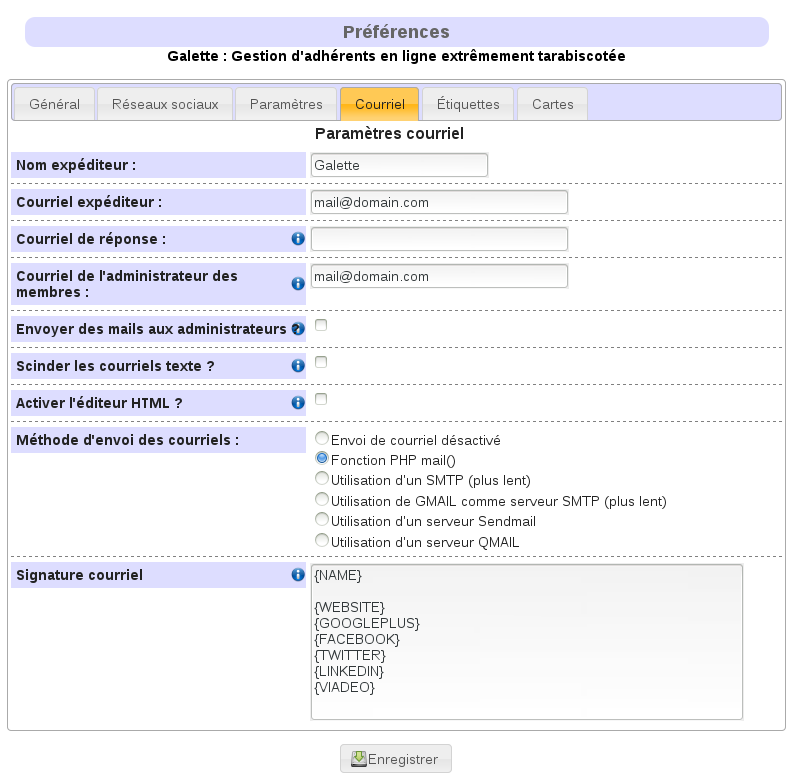
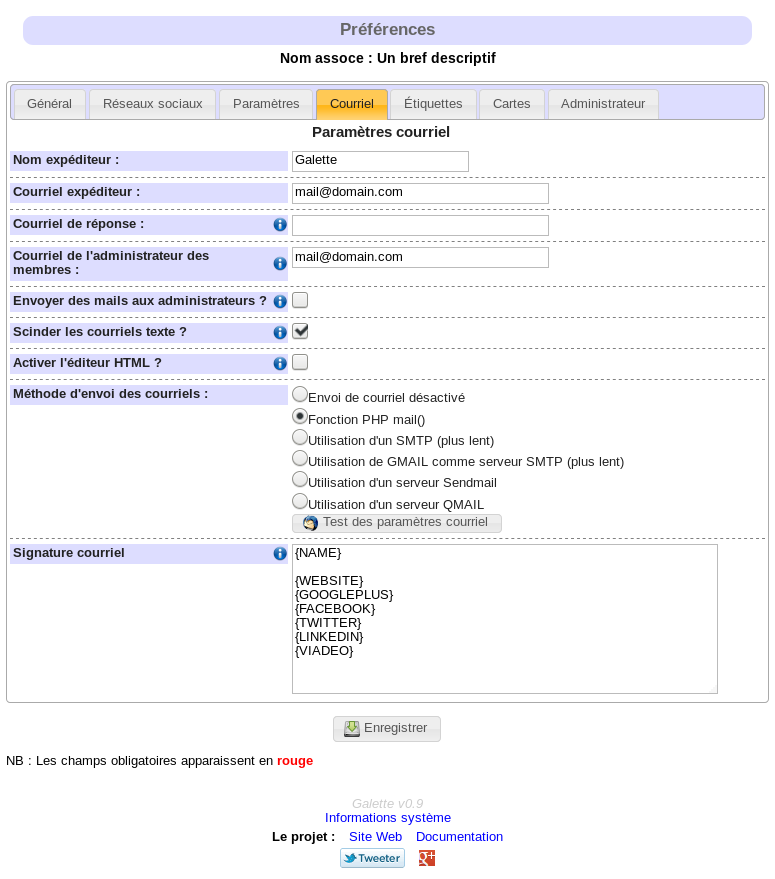
Capture préférences mails et rédaction de cette partie

Changed region(s): [[0.0, 0.0, 1.0, 1.0], [0.929, 0.7682, 0.96, 0.8297]]

diff --git a/source/usermanual/preferences.rst b/source/usermanual/preferences.rst
@@ -74,10 +74,47 @@ Paramètres de Galette :
 Courriel
 ========
 
+Paramètres d'envoi de courriels :
+
 .. image:: ../_styles/static/images/usermanual/prefs_mail.png
    :scale: 50%
    :align: center
    :alt: Préférences de Galette, onglet Général
+
+* **Nom expéditeur** : le nom textuel de l'expéditeur des courriels,
+* **Courriel expéditeur** : l'adresse courriel de l'expéditeur des courriels,
+* **Courriel de réponse** : l'addresse de réponse aux courriels envoyés. Si cette valeur est vide, l'addresse de courriel de l'expéditeur sera utilisée,
+* **Courriel de l'administrateur des membres** : adresse à laquelle les courriels de notification d'inscription des membres seront envoyés,
+* **Envoyer des mails aux administrateurs** : envoi de courriels aux administrateurs lors d'une inscription,
+* **Scinder les courriels texte** : coupe automatiquement les longues lignes dans les courriels en mode texte. Si vous désactivez cette option, il faudra vous assurer de scinder vous-mêmes ces courriels,
+* **Activer l'éditeur HTML** : active l'envoie de courriels au format HTML (déconseillé - une copie en texte sera envoyée dans tous les cas, mais la génération peut ne pas convenir à ce que vous pourriez souhaiter),
+* **Méthode d'envoie des courriels** : la méthode à utiliser pour l'envoi :
+
+  * **Envoi de courriel désactivé** : aucun courriel ne sera envoyé par Galette,
+  * **Fonction PHP mail** : utilisation de la fonction PHP mail() et des paramètres qui y sont associas (recommandé),
+  * **Utilisation d'un SMTP** : utilisation d'un serveur SMTP externe à configurer (sera certainement plus lent que la fonction php mail()),
+  * **Utilisation de GMail pour serveur SMTP** : identique à la possibilité précédente, mais spécifique à GMail (sera certainement plus lent que la fonction php mail()),
+  * **Utilisation d'un serveur sendmail** : utilisera le serveur sendmail local configuré sur le serveur,
+  * **Utilisation d'un serveur qmail** : utilisera le serveur qmail local configuré sur le serveur,
+  * **Signature courriel** : la signature apposée automatiquement à tous les courriels envoyés. Les variables disponibles sont :
+
+    * ``{NAME]`` le nom de l'association,
+    * ``{WEBSITE}`` le sie web de l'assiciation,
+    * ``{FACEBOOK}`` l'adresse Facebook renseignée dans les paramètres des réseaux sociaux,
+    * ``{GOOGLEPLUS}`` l'adresse Google+ renseignée dans les paramètres des réseaux sociaux,
+    * ``{TWITTER}`` l'adresse Twitter renseignée dans les paramètres des réseaux sociaux,
+    * ``{LINKEDIN}`` l'adresse LinkedIn renseignée dans les paramètres des réseaux sociaux,
+    * ``{VIADEO}`` l'adresse Viadeo renseignée dans les paramètres des réseaux sociaux.
+
+Dans le cas de l'utilisation de GMail comme serveur SMTP, vous devrez configurer le nom d'utilisateur et le most de passe à utiliser.
+
+La configuration d'un serveur SMTP est un peu plus complexe :
+
+* **Serveur SMTP** : l'addresse du serveur, requis,
+* **Port SMTP** : le port du serveur, requis,
+* **Utiliser l'authentification SMTP** : si le serveur requiert une authentification. Dans ce cas, il vous faudra également rensigner l'utilisateur et le mot de passe,
+* **Utiliser TLS pour SMTP** : activer SSL (toujouors actif pour Gmail, qui ne permet pas autre chose),
+* **Autoriser TLS non sécirisé** : dans certains cas, le certificat SSL peut être invalide (certificats auto signés par exemple).
 
 Étiquettes
 ==========
